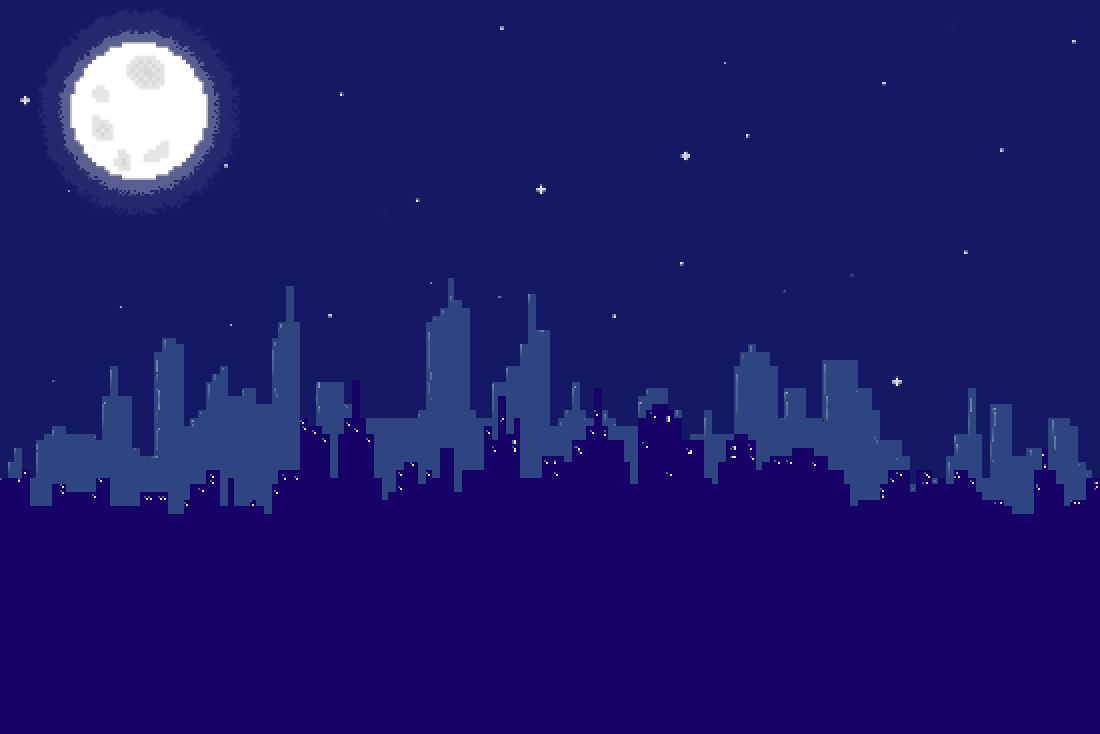
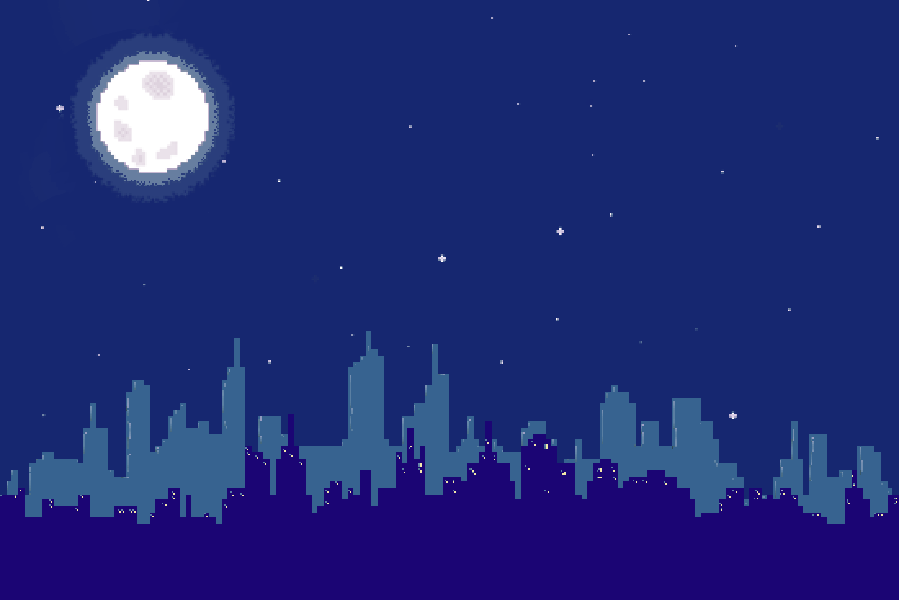
BG added

Changed region(s): [[0.0, 0.39, 1.0, 0.87], [0.0311, 0.03, 0.2803, 0.36]]

diff --git a/main.py b/main.py
@@ -51,7 +51,8 @@ class Game:
 
     def run(self):
         while True:
-            self.display.fill((39, 98, 131))
+            self.display.fill((22, 39, 112))
+            self.display.blit(self.assets["background"], (0, 0))
 
             self.scroll[0] += (
                 self.player.rect().centerx
@@ -60,7 +61,7 @@ class Game:
             ) / 30
             self.scroll[1] += (
                 self.player.rect().centery
-                - self.display.get_height() / 2
+                - ((self.display.get_height() / 2) + (self.display.get_height() / 8))
                 - self.scroll[1]
             ) / 30
             render_scroll = (int(self.scroll[0]), int(self.scroll[1]))
